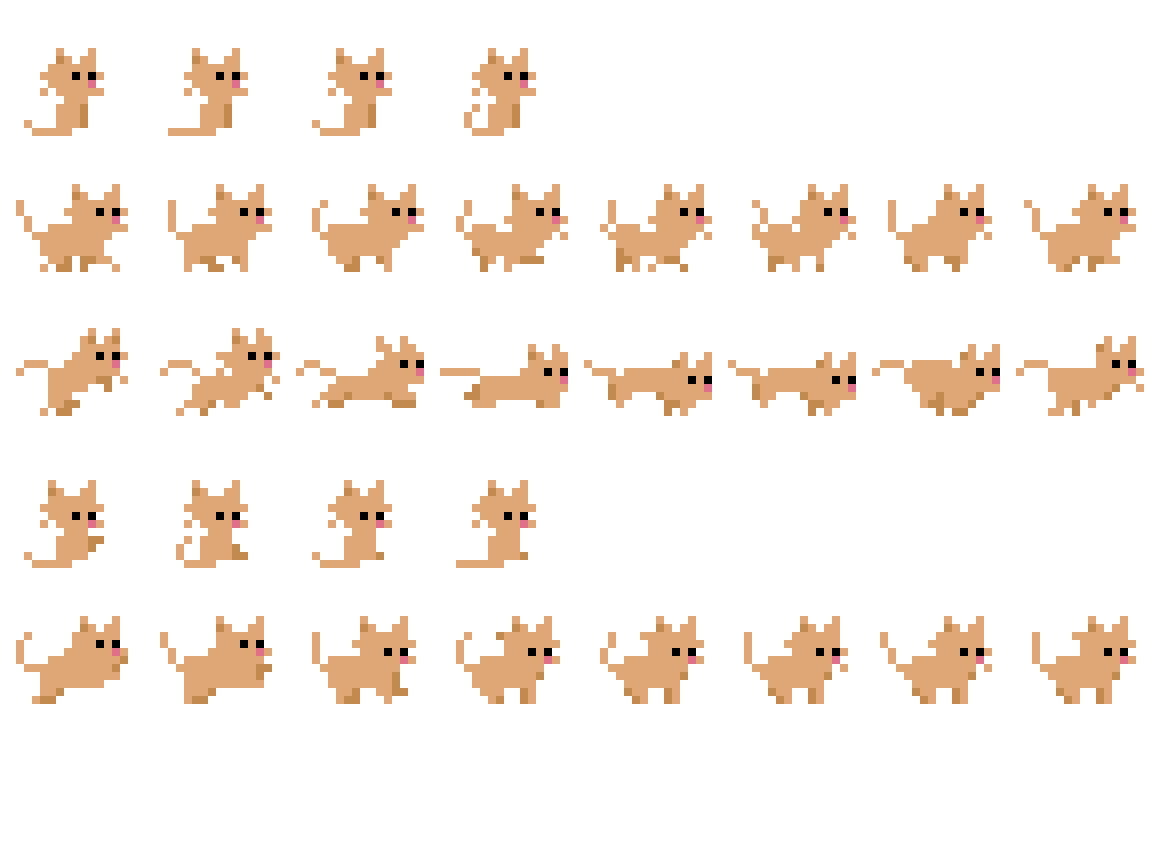
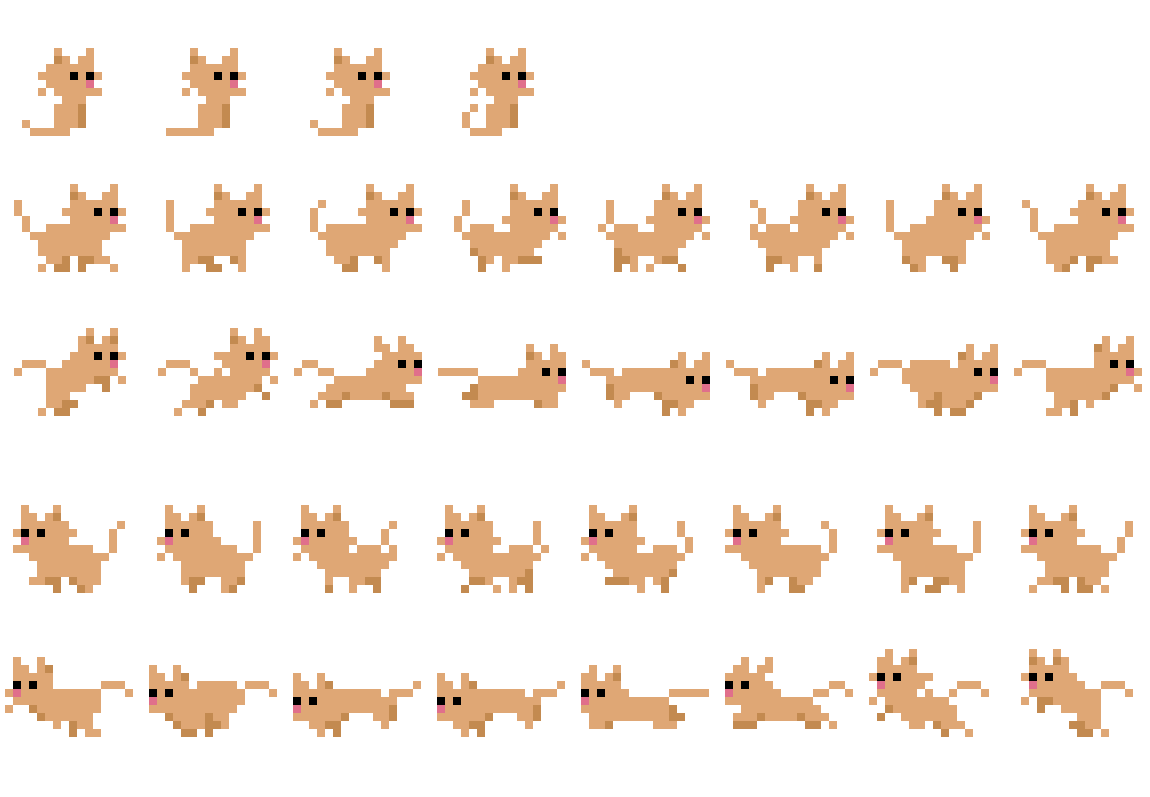
animacion ok

diff --git a/main.ts b/main.ts
@@ -7,6 +7,7 @@ class mainState extends Phaser.State {
     cursor:Phaser.CursorKeys;
     terraesquerra:Phaser.Sprite;
     gat:Phaser.Sprite;
+    kitty:Phaser.Sprite;
     terradreta:Phaser.Sprite;
     baldainici:Phaser.Sprite;
     baldes:Phaser.Group;
@@ -39,9 +40,11 @@ class mainState extends Phaser.State {
         this.game.load.image('rellotge', 'assets/rellotge.png');
         this.game.load.image('flor', 'assets/flor.png');
         this.game.load.image('basura', 'assets/basura.png');
+        this.load.spritesheet('kitty', 'assets/Kitty2.png', 108, 78);
         this.game.physics.startSystem(Phaser.Physics.ARCADE);
 
-
+        //144
+        //159
     }
 
     /**
@@ -59,23 +62,25 @@ class mainState extends Phaser.State {
     /**
      * Metode configGat serveix per configurar el Sprite Gat
      */
+    // this.playerAnimationsLoad();
     configGat() {
         this.gat = this.game.add.sprite(
             this.game.world.centerX,
             this.game.world.height - 83,
-            'gat'
+            'kitty'
         );
         // Cambiamos el "anchor" del jugador
         this.gat.anchor.setTo(0.5, 0.5);
+        this.playerAnimationsLoad();
         //Afegueixo fisica al gat.
         this.game.physics.arcade.enable(this.gat);
         // que colisione contra las paredes.
         this.gat.body.collideWorldBounds = true;
         // Agregamos gravedad al jugador
         this.gat.body.gravity.y = 500;
+        this.gat.animations.play('idEsperar');
 
     }
-
     /**
      * Metode configWorld serveix per configurar el mon
      */
@@ -192,12 +197,7 @@ class mainState extends Phaser.State {
      */
     crearObjectes() {
 
-        var posiciones:Point[] = [
-            new Point(1, 2), new Point(2, 0),
-            new Point(2, 4), new Point(4, 0),
-            new Point(4, 4), new Point(3, 1),
-            new Point(3, 3), new Point(3, 2)
-        ];
+        var posicions:Point[] = [new Point(1, 2), new Point(2, 0), new Point(2, 4), new Point(4, 0), new Point(4, 4), new Point(3, 1), new Point(3, 3), new Point(3, 2)];
         var parametros = {
             "1, 2": {
                 balda: 1,
@@ -211,7 +211,7 @@ class mainState extends Phaser.State {
                 balda: 3,
                 altura: 64
             },
-            "4,0": {
+            "4, 0": {
                 balda: 4,
                 altura: 90
             },
@@ -232,7 +232,7 @@ class mainState extends Phaser.State {
                 altura: 80
             }
         };
-        var pos = this.rnd.pick(posiciones);
+        var pos = this.rnd.pick(posicions);
         var x = pos.x;
         var y = pos.y;
         var param = parametros[x + ", " + y];
@@ -240,12 +240,22 @@ class mainState extends Phaser.State {
         var altura = param["altura"];
         var objectType = this.tipusObjecte();
 
-        if(!this.comprovarBaldes(balda)) {
+
             var newElement = new Objecte(this.game, y * this.ESPAIH, x * altura, objectType, balda);
             this.objectes.add(newElement);
-        }
-    }
 
+    }
+    playerAnimationsLoad(){
+
+        this.gat.animations.add('idEsperar', [0,1,2,3], 10,true);
+        this.gat.animations.add('idDreta', [8,9,10,11,12,13,14,15], 10,true);
+       this.gat.animations.add('idEsquerra', [24,25,26,27,28,29,30,31], 10,true);
+       // this.kitty.animations.add('walkLeft', [16,17,18,19,20,21,22,23], 10,true);
+        //this.kitty.animations.add('jumpRight', [24,25,26,27,28,29,30,31],10,true);
+        //this.kitty.animations.add('jumpLeft', [32,33,34,35,36,37,38,39], 10,true);
+
+
+    }
     /**
      * Comprova si la balda està dispobible
      * @param balda id de la balda
@@ -307,21 +317,25 @@ class mainState extends Phaser.State {
         if (this.cursor.left.isDown) {
             // Movemos al jugador a la izquierda
             this.gat.body.velocity.x = -200;
+            this.gat.animations.play('idEsquerra');
         }
         // Si pulsamos el cursor derecho
         else if (this.cursor.right.isDown) {
             // Movemos al jugador a la derecha
             this.gat.body.velocity.x = 200;
+            this.gat.animations.play('idDreta');
         }
         // Si no se pulsan ni el cursor izquierdo ni el derecho
         else {
             // el jugador se para
             this.gat.body.velocity.x = 0;
+            this.gat.animations.play('idEsperar');
         }
         // Si pulsamos la flecha arriba y el jugador está tocando el suelo
         if (this.cursor.up.isDown) {
             // el jugador se mueve hacia arriba (salto)
             this.gat.body.velocity.y = -320;
+            this.gat.animations.play('idDreta');
         }
         if (this.CONTADORTIEMPO == 0) {
 
@@ -362,7 +376,6 @@ class Objecte extends Phaser.Sprite {
 
         this.game.physics.enable(this, Phaser.Physics.ARCADE);
         this.body.immovable = true;
-        this.height - 900;
         this.balda = balda;
     }
 }

diff --git a/main.js b/main.js
@@ -38,7 +38,10 @@ var mainState = (function (_super) {
         this.game.load.image('rellotge', 'assets/rellotge.png');
         this.game.load.image('flor', 'assets/flor.png');
         this.game.load.image('basura', 'assets/basura.png');
+        this.load.spritesheet('kitty', 'assets/Kitty2.png', 108, 78);
         this.game.physics.startSystem(Phaser.Physics.ARCADE);
+        //144
+        //159
     };
     /**
      * Metodes que utilitzaré al create.
@@ -54,16 +57,19 @@ var mainState = (function (_super) {
     /**
      * Metode configGat serveix per configurar el Sprite Gat
      */
+    // this.playerAnimationsLoad();
     mainState.prototype.configGat = function () {
-        this.gat = this.game.add.sprite(this.game.world.centerX, this.game.world.height - 83, 'gat');
+        this.gat = this.game.add.sprite(this.game.world.centerX, this.game.world.height - 83, 'kitty');
         // Cambiamos el "anchor" del jugador
         this.gat.anchor.setTo(0.5, 0.5);
+        this.playerAnimationsLoad();
         //Afegueixo fisica al gat.
         this.game.physics.arcade.enable(this.gat);
         // que colisione contra las paredes.
         this.gat.body.collideWorldBounds = true;
         // Agregamos gravedad al jugador
         this.gat.body.gravity.y = 500;
+        this.gat.animations.play('idEsperar');
     };
     /**
      * Metode configWorld serveix per configurar el mon
@@ -160,12 +166,7 @@ var mainState = (function (_super) {
      * Metode que crea objectes al atzar en una posició random
      */
     mainState.prototype.crearObjectes = function () {
-        var posiciones = [
-            new Point(1, 2), new Point(2, 0),
-            new Point(2, 4), new Point(4, 0),
-            new Point(4, 4), new Point(3, 1),
-            new Point(3, 3), new Point(3, 2)
-        ];
+        var posicions = [new Point(1, 2), new Point(2, 0), new Point(2, 4), new Point(4, 0), new Point(4, 4), new Point(3, 1), new Point(3, 3), new Point(3, 2)];
         var parametros = {
             "1, 2": {
                 balda: 1,
@@ -179,7 +180,7 @@ var mainState = (function (_super) {
                 balda: 3,
                 altura: 64
             },
-            "4,0": {
+            "4, 0": {
                 balda: 4,
                 altura: 90
             },
@@ -200,17 +201,23 @@ var mainState = (function (_super) {
                 altura: 80
             }
         };
-        var pos = this.rnd.pick(posiciones);
+        var pos = this.rnd.pick(posicions);
         var x = pos.x;
         var y = pos.y;
         var param = parametros[x + ", " + y];
         var balda = param["balda"];
         var altura = param["altura"];
         var objectType = this.tipusObjecte();
-        if (!this.comprovarBaldes(balda)) {
-            var newElement = new Objecte(this.game, y * this.ESPAIH, x * altura, objectType, balda);
-            this.objectes.add(newElement);
-        }
+        var newElement = new Objecte(this.game, y * this.ESPAIH, x * altura, objectType, balda);
+        this.objectes.add(newElement);
+    };
+    mainState.prototype.playerAnimationsLoad = function () {
+        this.gat.animations.add('idEsperar', [0, 1, 2, 3], 10, true);
+        this.gat.animations.add('idDreta', [8, 9, 10, 11, 12, 13, 14, 15], 10, true);
+        this.gat.animations.add('idEsquerra', [24, 25, 26, 27, 28, 29, 30, 31], 10, true);
+        // this.kitty.animations.add('walkLeft', [16,17,18,19,20,21,22,23], 10,true);
+        //this.kitty.animations.add('jumpRight', [24,25,26,27,28,29,30,31],10,true);
+        //this.kitty.animations.add('jumpLeft', [32,33,34,35,36,37,38,39], 10,true);
     };
     /**
      * Comprova si la balda està dispobible
@@ -286,19 +293,23 @@ var mainState = (function (_super) {
         if (this.cursor.left.isDown) {
             // Movemos al jugador a la izquierda
             this.gat.body.velocity.x = -200;
+            this.gat.animations.play('idEsquerra');
         }
         else if (this.cursor.right.isDown) {
             // Movemos al jugador a la derecha
             this.gat.body.velocity.x = 200;
+            this.gat.animations.play('idDreta');
         }
         else {
             // el jugador se para
             this.gat.body.velocity.x = 0;
+            this.gat.animations.play('idEsperar');
         }
         // Si pulsamos la flecha arriba y el jugador está tocando el suelo
         if (this.cursor.up.isDown) {
             // el jugador se mueve hacia arriba (salto)
             this.gat.body.velocity.y = -320;
+            this.gat.animations.play('idDreta');
         }
         if (this.CONTADORTIEMPO == 0) {
         }
@@ -332,7 +343,6 @@ var Objecte = (function (_super) {
         _super.call(this, game, x, y, key, 0);
         this.game.physics.enable(this, Phaser.Physics.ARCADE);
         this.body.immovable = true;
-        this.height - 900;
         this.balda = balda;
     }
     return Objecte;
